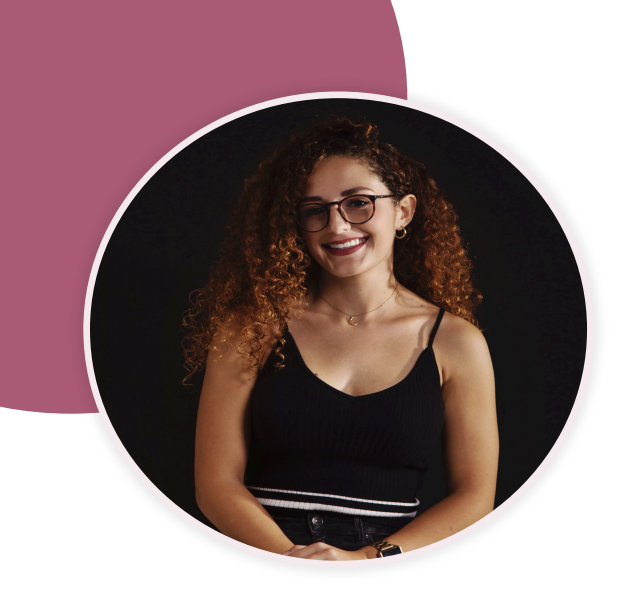
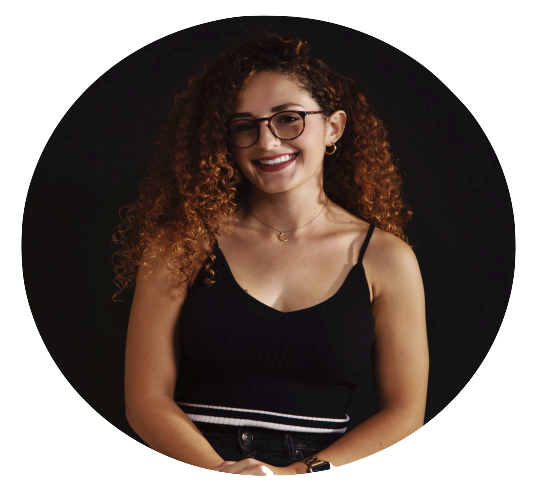
cambios css

diff --git a/index.html b/index.html
@@ -4,7 +4,9 @@
     <meta charset="UTF-8">
     <meta http-equiv="X-UA-Compatible" content="IE=edge">
     <meta name="viewport" content="width=device-width, initial-scale=1.0">
+    <link rel="stylesheet" href="style.css">
     <title>CV. Cristina Cascajares</title>
+    
 </head>
 <body>
     <!-- Agrega tus datos personales como nombre,
@@ -20,18 +22,13 @@
         Tener dos encabezados h2
         Debe tener una lista no ordenada con clase 'skills'
         Debe tener un titulo y llamarse 'Mi CV' -->
-<!-- Imagen-->
-<div>
 
-    <img src="01.cristina.png" width="500px" height="400px">
-
-</div>
-    
-<!-- Titulo "nombre" -->
-<div>
+<header>
     <h1>Cristina Cascajares Gastelum</h1>
     <h6> Lic. En administración de empresas</h6>
-</div>
+    <img src="01.cristina.png" width="500px" height="400px">
+</header>
+
 <!-- Intro personal -->
 <div>
 <h5> Operadora de centros de consumo con 5 años de

diff --git a/style.css b/style.css
@@ -1,0 +1,4 @@
+*{ 
+ background-color: rgba(255, 255, 255, 0.2);
+ color:rgb(157, 57, 140);
+}
